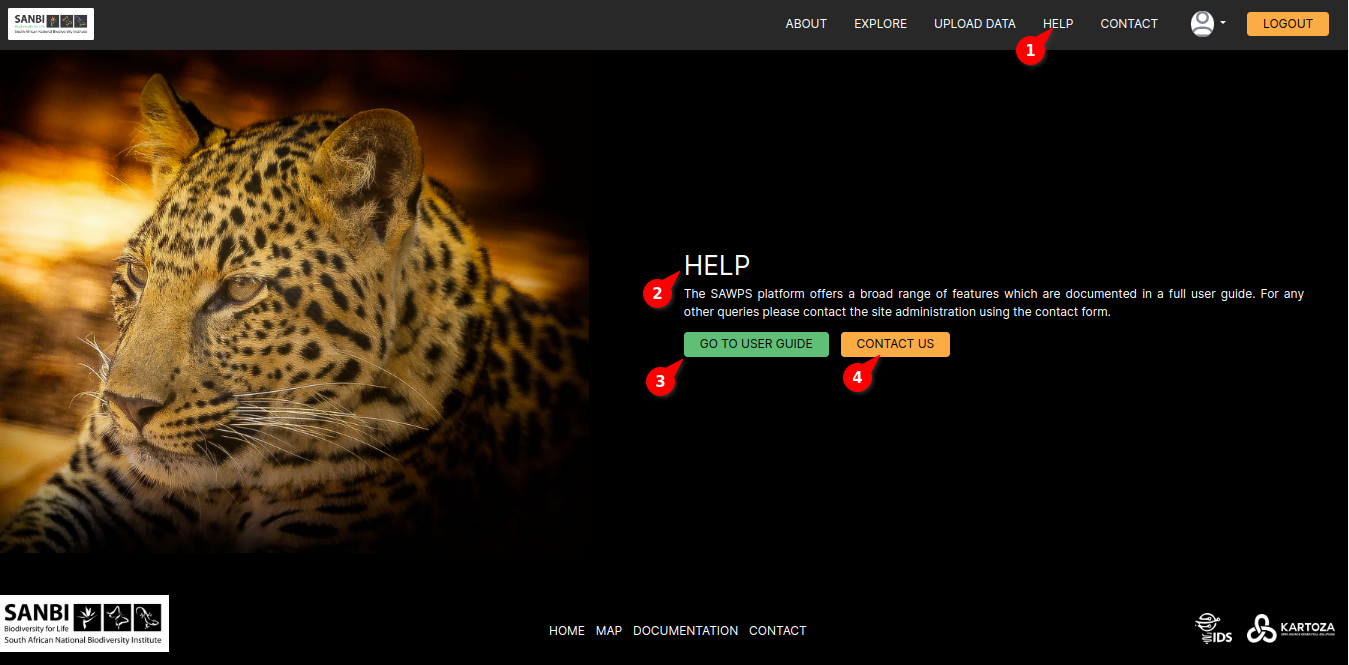
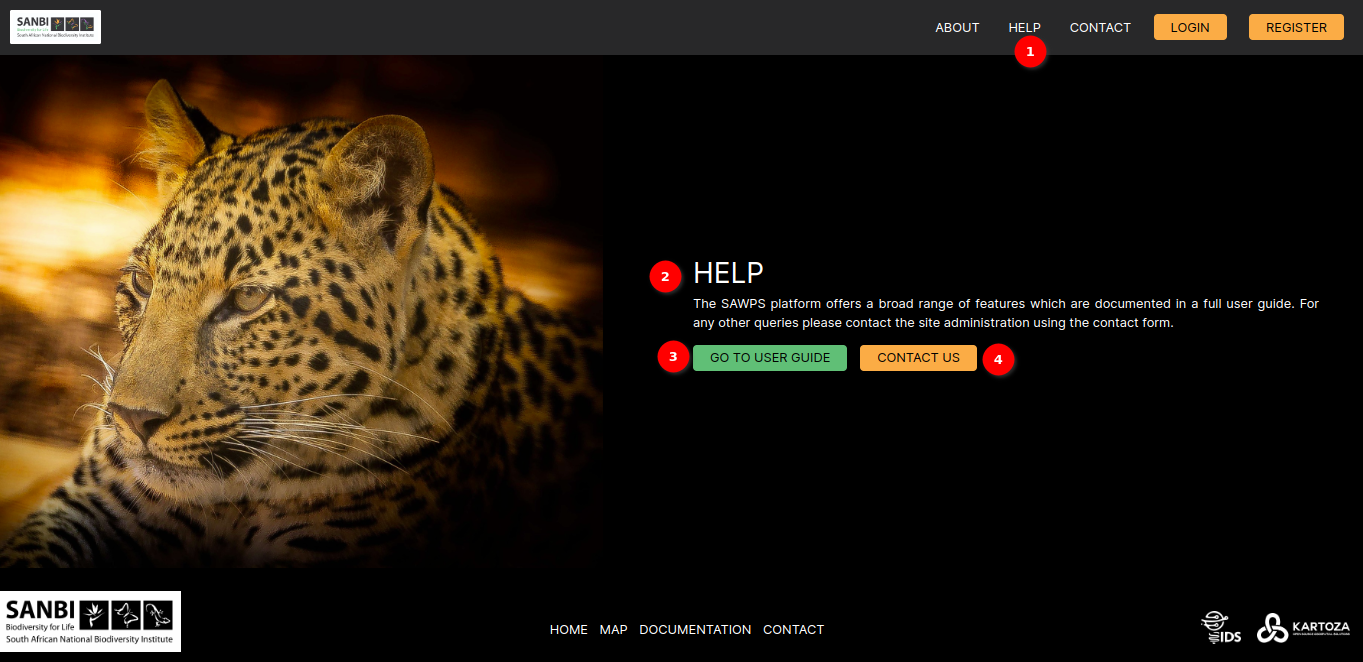
Update help page documentation (#1272)
* Update the help page image

* Add detailed documentation for the contact page

* Update docs/src/user/manual/help-contact.md

* Update docs/src/user/manual/help-contact.md

* Update docs/src/user/manual/help-contact.md

---------

Changed region(s): [[0.0, 0.0, 1.0, 1.0], [0.0, 0.8761, 0.1557, 0.997], [0.4047, 0.9366, 0.6227, 0.9668]]

diff --git a/docs/src/user/manual/help-contact.md b/docs/src/user/manual/help-contact.md
@@ -23,8 +23,30 @@ The User Guide is a valuable resource for users seeking in-depth guidance.
 1. The User Guide will open in a new browser tab.
 2. A user can browse through the User Guide to find specific information or guidance on various topics related to the platform.
 
-#### Contact Us form
+## Contact Page
+
+### Description
+
+The Contact Page serves as a means for users to get in touch with your organization or platform. Users can use this page to send messages, inquiries, or feedback. This documentation provides an overview of the fields and features available on the Contact Page.
+
+### Contact Form
+
+The Contact Page features a user-friendly contact form where users can provide their information and message. Here are the key components of the contact form:
 
 ![Contact us](./img/help-contact-3.png)
 
-1. On the Contact Us page, you will be presented with a contact form or contact details, allowing you to initiate communication with our support team.
+1. **Name**: Users are required to enter their name in this field. It's where they should input their full name or a name by which they want to be addressed.
+
+2. **Email**: This field is for users to provide their email address. It's important for the platform to have a way to reach out to users, so this is a required field.
+
+3. **Subject**: Users can specify the subject or topic of their message in this field. It helps categorize and route messages appropriately.
+
+4. **Message**: Users can compose their message or inquiry in this text box. It's where they can provide detailed information or ask questions.
+
+5. **Send me a copy (Checkbox)**: Users have the option to check this box if they want to receive a copy of the message they are sending to their own email address. This can be useful for reference.
+
+6. **Send Button**: After filling in the required information and composing their message, users can click the `SEND` button to submit their message. This initiates the process of sending the message to the organization.
+
+## Summary
+
+The Contact Page offers a straightforward and user-friendly contact form for users to get in touch. Users can provide their name, email, specify the subject, and compose their message. Additionally, there's an option to request a copy of the message they're sending. The `SEND` button is used to send the message to the platform. This page is an essential communication channel for users to connect with our organization.
